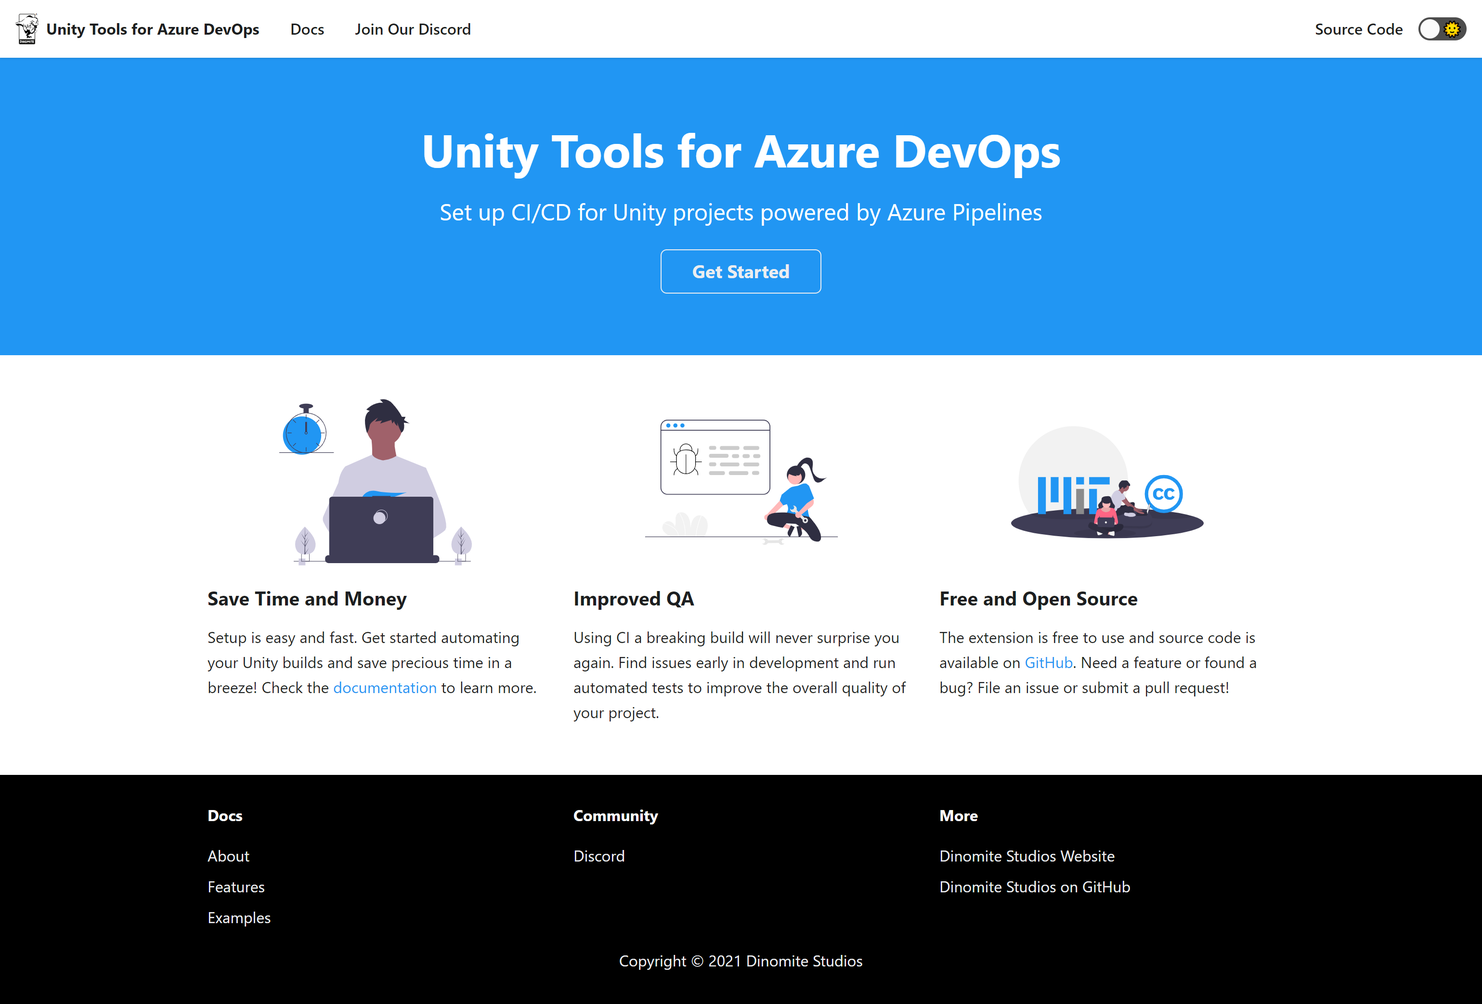
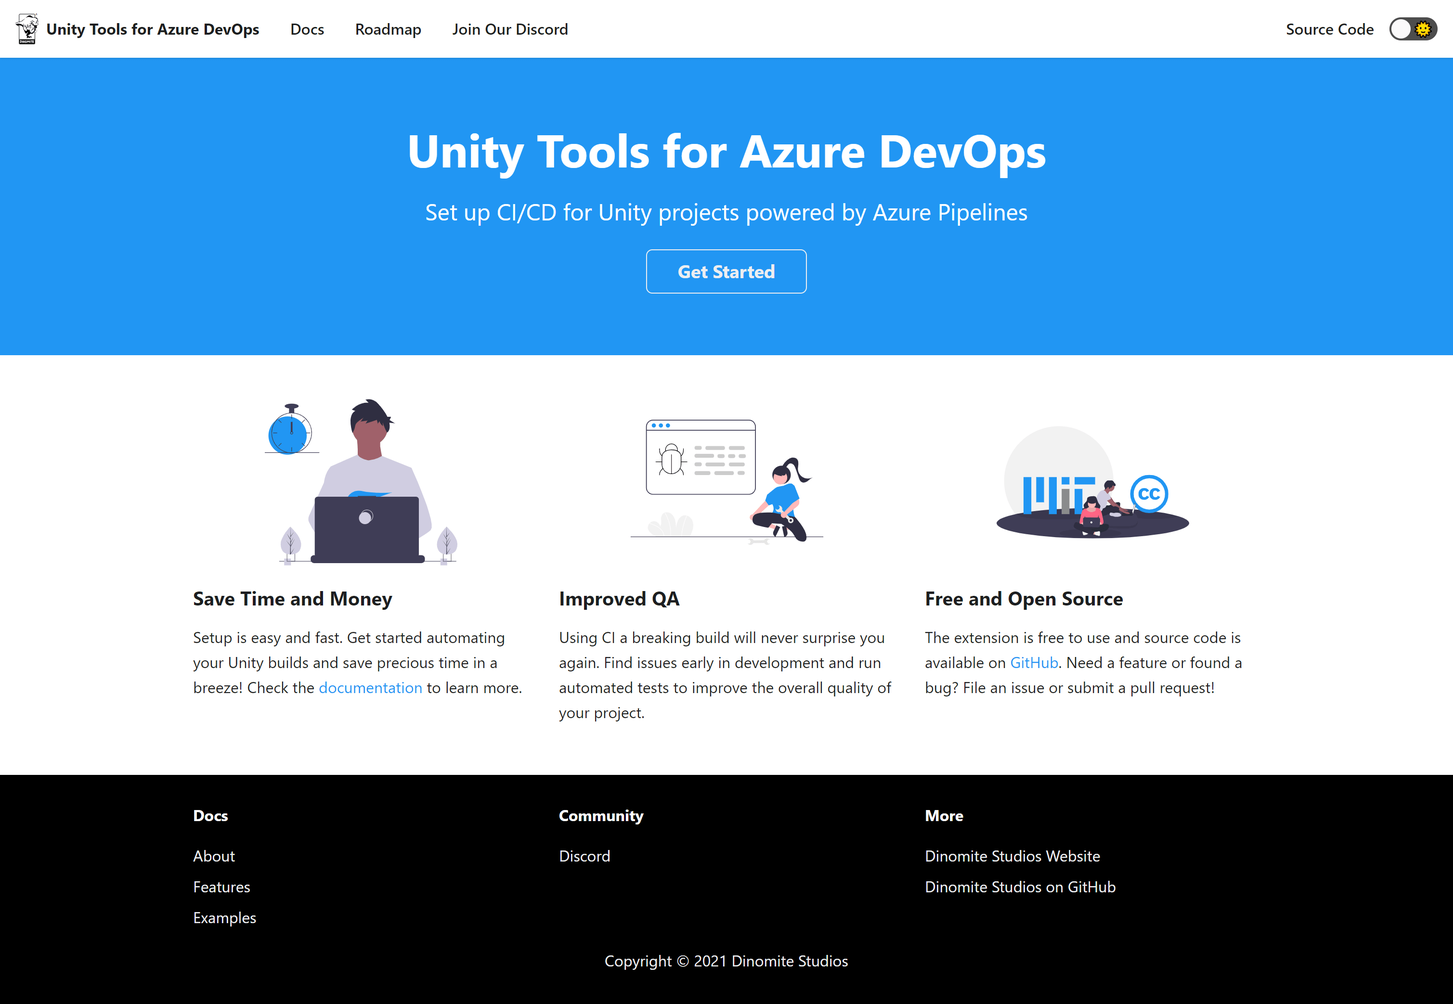
Release new examples (#8)
* Update azure-pipelines.yml for Azure Pipelines (#3)

* Create Standalone build example (#5)

* Update README

* Update azure-pipelines.yml for Azure Pipelines (#3) (#4)

* Update azure-pipelines.yml for Azure Pipelines

* Update azure-pipelines.yml for Azure Pipelines

* Update azure-pipelines.yml for Azure Pipelines

* Update azure-pipelines.yml for Azure Pipelines

* Update azure-pipelines.yml for Azure Pipelines

* Add htaccess file for https redirect

* Add GA

* Create first standalone example

* Update examples (#7)

* Update README

* Update azure-pipelines.yml for Azure Pipelines (#3) (#4)

* Update azure-pipelines.yml for Azure Pipelines

* Update azure-pipelines.yml for Azure Pipelines

* Update azure-pipelines.yml for Azure Pipelines

* Update azure-pipelines.yml for Azure Pipelines

* Update azure-pipelines.yml for Azure Pipelines

* Add htaccess file for https redirect

* Add GA

* Create first standalone example

* Add roadmap page and reduze image file sizes

* Update build task docs to use yaml code instead of image

* Update exampel yaml

* Remove tabs from remaining docs

* Fix typo

diff --git a/docusaurus.config.js b/docusaurus.config.js
@@ -28,6 +28,12 @@ module.exports = {
           position: 'left',
         },
         {
+          to: 'roadmap/',
+          activeBasePath: 'roadmap',
+          label: 'Roadmap',
+          position: 'left',
+        },
+        {
           href: 'https://discord.gg/RpHSpxkEP6',
           label: 'Join Our Discord',
           position: 'left'

diff --git a/docs/unity-activate-license-task.md b/docs/unity-activate-license-task.md
@@ -101,32 +101,37 @@ Path to the Unity editor log files generated while executing the task. Use this 
 
 Here's a simple example of how to use and define the task in your pipeline. For more examples, check the [Examples Collection](./examples.md).
 
-import Tabs from '@theme/Tabs';
-import TabItem from '@theme/TabItem';
+### YAML
 
-<Tabs
-  lazy
-  groupId="pipeline-editing-tool"
-  defaultValue="yaml"
-  values={[
-    {label: 'YAML', value: 'yaml'},
-    {label: 'Classic Editor', value: 'classic'}
-  ]}>
-  <TabItem value="yaml">
-  <p>
-  In the simple YAML example below we are definiing the task a step in the pipeilne using <code>- task: UnityActivateLicenseTask@1</code>. We are also
-  giving the task a reference name using <code>name: unityactivation</code>, so we can use it to refernce the output variables of the task in other tasks of the pipeline. E.g. we can output the value of the <code>logsOutputPath</code> output variable to the console using <code>echo $(unityactivation.logsOutputPath)</code>. For <code>username</code>, <code>password</code> and <code>serial</code> we use shared pipeline variables created previously that contain the user credentials for activating Unity.
-  </p>
-  <img src="../static/img/unity-activate-license-task/unity-activate-license-yaml.png" alt="Classic Pipeline YAML Task Configuration"/>
-  </TabItem>
-  <TabItem value="classic">
-  <p>
-  The classic (visual) editor for Azure Pipelines provides input fields for configuring the task. In the simple example below, we set variables, which we previously defined, for the <code>username</code>, <code>password</code> and <code>serial</code> inputs. For <code>Unity editors location</code> we tell the task to use the default Unity Hub installation path to lookup installed Unity editor versions on the agent running our pipeline. We are also leaving the <code>Unity project path</code> field empty, since we know our Unity project is in the repository root. We are also assigning a <code>Reference name</code> to the task, so we can use it to refernce the output variables in the variables list in other tasks of the pipeline. E.g. to get the value of the <code>logsOutputPath</code> output variable and insert it into any other input field of a task we can then use <code>$(unityactivation.logsOutputPath)</code>.
-  </p>
+In the simple YAML example below we are definiing the task a step in the pipeilne using `- task: UnityActivateLicenseTask@1`. We are also giving the task a reference name using `name: unityactivation`, so we can use it to refernce the output variables of the task in other tasks of the pipeline. E.g. we can output the value of the `logsOutputPath` output variable to the console using `echo $(unityactivation.logsOutputPath)`. For `username`, `password` and `serial` we use shared pipeline variables created previously that contain the user credentials for activating Unity.
 
-  <img src="../static/img/unity-activate-license-task/unity-activate-license-classic.png" alt="Classic Pipeline Designer Task Configuration"/>
-  </TabItem>
-</Tabs>
+```yaml
+trigger:
+- main
+
+pool:
+  name: Unity Windows
+
+variables:
+  - group: unity-activation-variables
+
+steps:
+- task: UnityActivateLicenseTask@1
+  name: unityactivation
+  inputs:
+    username: $(unity.username)
+    password: $(unity.password)
+    serial: $(unity.serial)
+
+- script: |
+    echo $(unityactivation.logsOutputPath)
+```
+
+### Classic Pipeline Editor
+
+The classic (visual) editor for Azure Pipelines provides input fields for configuring the task. In the simple example below, we set variables, which we previously defined, for the `username`, `password` and `serial` inputs. For `Unity editors location` we tell the task to use the default Unity Hub installation path to lookup installed Unity editor versions on the agent running our pipeline. We are also leaving the `Unity project path` field empty, since we know our Unity project is in the repository root. We are also assigning a `Reference name` to the task, so we can use it to refernce the output variables in the variables list in other tasks of the pipeline. E.g. to get the value of the `logsOutputPath` output variable and insert it into any other input field of a task we can then use `$(unityactivation.logsOutputPath)`.
+
+![Classic Pipeline Designer Task Configuration](../static/img/unity-activate-license-task/unity-activate-license-classic.png)
 
 ---
 

diff --git a/docs/unity-cmd-task.md b/docs/unity-cmd-task.md
@@ -81,32 +81,33 @@ Path to the Unity editor log files generated while executing the task. Use this 
 
 Here's a simple example of how to use and define the task in your pipeline. For more examples, check the [Examples Collection](./examples.md).
 
-import Tabs from '@theme/Tabs';
-import TabItem from '@theme/TabItem';
+### YAML
 
-<Tabs
-  lazy
-  groupId="pipeline-editing-tool"
-  defaultValue="yaml"
-  values={[
-    {label: 'YAML', value: 'yaml'},
-    {label: 'Classic Editor', value: 'classic'}
-  ]}>
-  <TabItem value="yaml">
-  <p>
-  In the simple YAML example below we are definiing the task a step in the pipeilne using <code>- task: UnityCMDTask@1</code>. We are also
-  giving the task a reference name using <code>name: unitycmd</code>, so we can use it to refernce the output variables of the task in other tasks of the pipeline. E.g. we can output the value of the <code>logsOutputPath</code> output variable to the console using <code>echo $(unitycmd.logsOutputPath)</code>. For <code>cmdArgs</code> we specify that Unity should target the <code>standalone</code> platform and execute our custom build script <code>MyBuildTools.BuildProject</code> to perform the build.
-  </p>
-  <img src="../static/img/unity-cmd-task/unity-cmd-yaml.png" alt="Classic Pipeline YAML Task Configuration"/>
-  </TabItem>
-  <TabItem value="classic">
-  <p>
-  The classic (visual) editor for Azure Pipelines provides input fields for configuring the task. In the simple example below, we set <code>Unity editors location</code> to use the default Unity Hub installation path to lookup installed Unity editor versions on the agent running our pipeline. We are also leaving the <code>Unity project path</code> field empty, since we know our Unity project is in the repository root. For <code>Command line arguments</code> we specify that Unity should target the <code>standalone</code> platform and execute our custom build script <code>MyBuildTools.BuildProject</code> to perform the build. We are also assigning a <code>Reference name</code> to the task, so we can use it to refernce the output variables in the variables list in other tasks of the pipeline. E.g. to get the value of the <code>logsOutputPath</code> output variable and insert it into any other input field of a task we can then use <code>$(unitycmd.logsOutputPath)</code>.
-  </p>
+In the simple YAML example below we are definiing the task a step in the pipeilne using `- task: UnityCMDTask@1`. We are also giving the task a reference name using `name: unitycmd`, so we can use it to refernce the output variables of the task in other tasks of the pipeline. E.g. we can output the value of the `logsOutputPath` output variable to the console using `echo $(unitycmd.logsOutputPath)`. For `cmdArgs` we specify that Unity should target the `standalone` platform and execute our custom build script `MyBuildTools.BuildProject` to perform the build.
 
-  <img src="../static/img/unity-cmd-task/unity-cmd-classic.png" alt="Classic Pipeline Designer Task Configuration"/>
-  </TabItem>
-</Tabs>
+```yaml
+trigger:
+- main
+
+pool:
+  name: Unity Windows
+
+steps:
+- task: UnityCMDTask@1
+  name: unitycmd
+  inputs:
+    unityEditorsPathMode: unityHub
+    cmdArgs: -buildTarget standalone -executeMethod MyBuildTools.BuildProject
+
+- script: |
+    echo $(unitycmd.logsOutputPath)
+```
+
+### Classic Pipeline Editor
+
+The classic (visual) editor for Azure Pipelines provides input fields for configuring the task. In the simple example below, we set `Unity editors location` to use the default Unity Hub installation path to lookup installed Unity editor versions on the agent running our pipeline. We are also leaving the `Unity project path` field empty, since we know our Unity project is in the repository root. For `Command line arguments` we specify that Unity should target the `standalone` platform and execute our custom build script `MyBuildTools.BuildProject` to perform the build. We are also assigning a `Reference name` to the task, so we can use it to refernce the output variables in the variables list in other tasks of the pipeline. E.g. to get the value of the `logsOutputPath` output variable and insert it into any other input field of a task we can then use `$(unitycmd.logsOutputPath)`.
+
+![Classic Pipeline Designer Task Configuration](../static/img/unity-cmd-task/unity-cmd-classic.png)
 
 ---
 

diff --git a/docs/unity-test-task.md b/docs/unity-test-task.md
@@ -149,32 +149,32 @@ Path to the Unity editor log files generated while executing the task. Use this 
 
 Here's a simple example of how to use and define the task in your pipeline. For more examples, check the [Examples Collection](./examples.md).
 
-import Tabs from '@theme/Tabs';
-import TabItem from '@theme/TabItem';
+### YAML
 
-<Tabs
-  lazy
-  groupId="pipeline-editing-tool"
-  defaultValue="yaml"
-  values={[
-    {label: 'YAML', value: 'yaml'},
-    {label: 'Classic Editor', value: 'classic'}
-  ]}>
-  <TabItem value="yaml">
-  <p>
-  In the simple YAML example below we are definiing the task a step in the pipeilne using <code>- task: UnityTestTask@1</code>. We are also
-  giving the task a reference name using <code>name: unitytest</code>, so we can use it to refernce the output variables of the task in other tasks of the pipeline. E.g. we can output the value of the <code>testResultsOutputPathAndFileName</code> output variable to the console using <code>echo $(unitytest.testResultsOutputPathAndFileName)</code>. For <code>testMode</code> we specify that we want to run in <code>editMode</code>. Everything else we are leaving at the defaults.
-  </p>
-  <img src="../static/img/unity-test-task/unity-test-yaml.png" alt="Classic Pipeline YAML Task Configuration"/>
-  </TabItem>
-  <TabItem value="classic">
-  <p>
-  The classic (visual) editor for Azure Pipelines provides input fields for configuring the task. In the simple example below, we set <code>Test mode</code> to <code>Edit Mode</code>, that means we are running tests that will also include the Unity Editor assembly and APIs. This is e.g. useful when testing editor extensions. We are also assigning a <code>Reference name</code> to the task, so we can use it to refernce the output variables in the variables list in other tasks of the pipeline. E.g. to get the value of the <code>testResultsOutputPathAndFileName</code> output variable and insert it into any other input field of a task we can then use <code>$(unitytest.testResultsOutputPathAndFileName)</code>. Everything else we are leaving at the defaults.
-  </p>
+In the simple YAML example below we are definiing the task a step in the pipeilne using `- task: UnityTestTask@1`. We are also giving the task a reference name using `name: unitytest`, so we can use it to refernce the output variables of the task in other tasks of the pipeline. E.g. we can output the value of the `testResultsOutputPathAndFileName` output variable to the console using `echo $(unitytest.testResultsOutputPathAndFileName)`. For `testMode` we specify that we want to run in `editMode`. Everything else we are leaving at the defaults.
 
-  <img src="../static/img/unity-test-task/unity-test-classic.png" alt="Classic Pipeline Designer Task Configuration"/>
-  </TabItem>
-</Tabs>
+```yaml
+trigger:
+- main
+
+pool:
+  name: Unity Windows
+
+steps:
+- task: UnityTestTask@1
+  name: unitytest
+  inputs:
+    testMode: editMode
+
+- script: |
+    echo $(unitytest.testResultsOutputPathAndFileName)
+```
+
+### Classic Pipeline Editor
+
+The classic (visual) editor for Azure Pipelines provides input fields for configuring the task. In the simple example below, we set `Test mode` to `Edit Mode`, that means we are running tests that will also include the Unity Editor assembly and APIs. This is e.g. useful when testing editor extensions. We are also assigning a `Reference name` to the task, so we can use it to refernce the output variables in the variables list in other tasks of the pipeline. E.g. to get the value of the `testResultsOutputPathAndFileName` output variable and insert it into any other input field of a task we can then use `$(unitytest.testResultsOutputPathAndFileName)`. Everything else we are leaving at the defaults.
+
+![Classic Pipeline Designer Task Configuration](../static/img/unity-test-task/unity-test-classic.png)
 
 ---
 

diff --git a/docs/unity-build-task.md b/docs/unity-build-task.md
@@ -169,32 +169,34 @@ Path to the Unity editor log files generated while executing the task. Use this 
 
 Here's a simple example of how to use and define the task in your pipeline. For more examples, check the [Examples Collection](./examples.md).
 
-import Tabs from '@theme/Tabs';
-import TabItem from '@theme/TabItem';
+### YAML
 
-<Tabs
-  lazy
-  groupId="pipeline-editing-tool"
-  defaultValue="yaml"
-  values={[
-    {label: 'YAML', value: 'yaml'},
-    {label: 'Classic Editor', value: 'classic'}
-  ]}>
-  <TabItem value="yaml">
-  <p>
-  In the simple YAML example below we are definiing the task a step in the pipeilne using <code>- task: UnityBuildTask@3</code>. We are also
-  giving the task a reference name using <code>name: unitybuild</code>, so we can use it to refernce the output variables of the task in other tasks of the pipeline. E.g. we can output the value of the <code>logsOutputPath</code> output variable to the console using <code>echo $(unitybuild.logsOutputPath)</code>. For <code>buildTarget</code> we specify that Unity should target the <code>standalone</code> platform. Our output file will be named <code>drop.exe</code> in this example.
-  </p>
-  <img src="../static/img/unity-build-task/unity-build-yaml.png" alt="Classic Pipeline YAML Task Configuration"/>
-  </TabItem>
-  <TabItem value="classic">
-  <p>
-  The classic (visual) editor for Azure Pipelines provides input fields for configuring the task. In the simple example below, we set <code>Build target</code> to <code>Standalone (agent-based)</code>, that means if our pipeline runs on a Windows agent we get a Windows built and if on a mac we'll get a macOS build. We are also assigning a <code>Reference name</code> to the task, so we can use it to refernce the output variables in the variables list in other tasks of the pipeline. E.g. to get the value of the <code>logsOutputPath</code> output variable and insert it into any other input field of a task we can then use <code>$(unitybuild.logsOutputPath)</code>. Everything else we are leaving at the defaults.
-  </p>
+In the simple YAML example below we are definiing the task a step in the pipeilne using `- task: UnityBuildTask@3`. We are also giving the task a reference name using `name: unitybuild`, so we can use it to refernce the output variables of the task in other tasks of the pipeline. E.g. we can output the value of the `logsOutputPath` output variable to the console using `echo $(unitybuild.logsOutputPath)`. For `buildTarget` we specify that Unity should target the `standalone` platform. Our output file will be named `drop.exe` in this example.
 
-  <img src="../static/img/unity-build-task/unity-build-classic.png" alt="Classic Pipeline Designer Task Configuration"/>
-  </TabItem>
-</Tabs>
+```yaml
+trigger:
+- main
+
+pool:
+  name: Unity Windows
+
+steps:
+- task: UnityBuildTask@3
+  name: unitybuild
+  inputs:
+    buildTarget: standalone
+    outputPath: $(Build.BinariesDirectory)
+    outputFileName: drop
+
+- script: |
+    echo $(unitybuild.logsOutputPath)
+```
+
+### Classic Pipeline Editor
+
+The classic (visual) editor for Azure Pipelines provides input fields for configuring the task. In the simple example below, we set `Build target` to `Standalone (agent-based)`, that means if our pipeline runs on a Windows agent we get a Windows built and if on a mac we'll get a macOS build. We are also assigning a `Reference name` to the task, so we can use it to refernce the output variables in the variables list in other tasks of the pipeline. E.g. to get the value of the `logsOutputPath` output variable and insert it into any other input field of a task we can then use `$(unitybuild.logsOutputPath)`. Everything else we are leaving at the defaults.
+
+![Classic Pipeline Designer Task Configuration](../static/img/unity-build-task/unity-build-classic.png)
 
 ---
 

diff --git a/docs/unity-get-project-version-task.md b/docs/unity-get-project-version-task.md
@@ -43,32 +43,33 @@ The Unity editor version revision found by the task for the specified Unity proj
 
 Here's a simple example of how to use and define the task in your pipeline. For more examples, check the [Examples Collection](./examples.md).
 
+### YAML
+
+In the simple YAML example below we are definiing the task a step in the pipeilne using `- task: UnityGetProjectVersionTask@1`. We are also giving the task a reference name using `name: unitygetprojectversion`, so we can use it to refernce the output variables of the task in other tasks of the pipeline. E.g. we can output the value of the `projectVersion` output variable to the console using `echo $(unitygetprojectversion.projectVersion)`.
+
+```yaml
+trigger:
+- main
+
+pool:
+  name: Unity Windows
+
+steps:
+- task: UnityGetProjectVersionTask@1
+  name: unitygetprojectversion
+
+- script: |
+    echo $(unitygetprojectversion.projectVersion)
+```
+
+### Classic Pipeline Editor
+
+The classic (visual) editor for Azure Pipelines provides input fields for configuring the task. In the simple example below, we are leaving the `Unity project path` field empty, since we know our Unity project is in the repository root. We are also assigning a `Reference name` to the task, so we can use it to refernce the output variables in the variables list in other tasks of the pipeline. E.g. to get the value of the `projectVersion` output variable and insert it into any other input field of a task we can then use `$(unitygetprojectversion.projectVersion)`.
+
+![Classic Pipeline Designer Task Configuration](../static/img/unity-get-project-version-task/get-project-version-classic.png)
+
 import Tabs from '@theme/Tabs';
 import TabItem from '@theme/TabItem';
-
-<Tabs
-  lazy
-  groupId="pipeline-editing-tool"
-  defaultValue="yaml"
-  values={[
-    {label: 'YAML', value: 'yaml'},
-    {label: 'Classic Editor', value: 'classic'}
-  ]}>
-  <TabItem value="yaml">
-  <p>
-  In the simple YAML example below we are definiing the task a step in the pipeilne using <code>- task: UnityGetProjectVersionTask@1</code>. We are also
-  giving the task a reference name using <code>name: unitygetprojectversion</code>, so we can use it to refernce the output variables of the task in other tasks of the pipeline. E.g. we can output the value of the <code>projectVersion</code> output variable to the console using <code>echo $(unitygetprojectversion.projectVersion)</code>.
-  </p>
-  <img src="../static/img/unity-get-project-version-task/get-project-version-yaml.png" alt="Classic Pipeline YAML Task Configuration"/>
-  </TabItem>
-  <TabItem value="classic">
-  <p>
-  The classic (visual) editor for Azure Pipelines provides input fields for configuring the task. In the simple example below, we are leaving the <code>Unity project path</code> field empty, since we know our Unity project is in the repository root. We are also assigning a <code>Reference name</code> to the task, so we can use it to refernce the output variables in the variables list in other tasks of the pipeline. E.g. to get the value of the <code>projectVersion</code> output variable and insert it into any other input field of a task we can then use <code>$(unitygetprojectversion.projectVersion)</code>.
-  </p>
-
-  <img src="../static/img/unity-get-project-version-task/get-project-version-classic.png" alt="Classic Pipeline Designer Task Configuration"/>
-  </TabItem>
-</Tabs>
 
 ---
 

diff --git a/docs/example-standalone-0.md b/docs/example-standalone-0.md
@@ -31,37 +31,37 @@ trigger:
 # that have the required Unity versions installed and any required SDKs for target platforms
 # configured.
 pool:
-  name: 'Unity Windows'
+  name: Unity Windows
 
-# Adds a pipeline variables library to the pipeline that contains
+# Adds a shared pipeline variables library to the pipeline that contains
 # authentication variables for activating a Unity editor with a Unity Plus / Pro seat.
 variables:
-  - group: 'unity-activation-variables'
+  - group: unity-activation-variables
 
 steps:
 # Before we build we activate a Unity Plus/Pro seat on the agent, only for the duration
 # of the pipeline execution. That way we can e.g. get rid of the Unity splash screen in our build.
 - task: UnityActivateLicenseTask@1
-  name: 'unityactivation'
+  name: unityactivation
   inputs:
-    username: '$(unity.username)'
-    password: '$(unity.password)'
-    serial: '$(unity.serial)'
+    username: $(unity.username)
+    password: $(unity.password)
+    serial: $(unity.serial)
 
 # Build the Unity project to standalone. Since we are running on a Windows agent, this will produce
 # an .exe executable and any dependency files needed.
 - task: UnityBuildTask@3
   inputs:
-    buildTarget: 'standalone'
-    outputPath: '$(Build.BinariesDirectory)'
-    outputFileName: 'mygame'
+    buildTarget: standalone
+    outputPath: $(Build.BinariesDirectory)
+    outputFileName: mygame
 
 # Copy build output files to artifact staging directory.
 - task: CopyFiles@2
   inputs:
-    SourceFolder: '$(Build.BinariesDirectory)'
+    SourceFolder: $(Build.BinariesDirectory)
     Contents: '**'
-    TargetFolder: '$(Build.ArtifactStagingDirectory)'
+    TargetFolder: $(Build.ArtifactStagingDirectory)
     CleanTargetFolder: true
     OverWrite: true
 
@@ -69,7 +69,7 @@ steps:
 # artifact storage. They will be available for sharing and/or further processing there.
 - task: PublishBuildArtifacts@1
   inputs:
-    PathtoPublish: '$(Build.ArtifactStagingDirectory)'
-    ArtifactName: 'drop'
-    publishLocation: 'Container'
+    PathtoPublish: $(Build.ArtifactStagingDirectory)
+    ArtifactName: drop
+    publishLocation: Container
 ```

diff --git a/src/pages/roadmap.md b/src/pages/roadmap.md
@@ -1,0 +1,17 @@
+---
+title: Roadmap
+description: Things planned for Unity Tools for Azure DevOps
+hide_table_of_contents: true
+---
+
+# Roadmap
+
+Unity Tools for Azure DevOps is a a non-profit open source tool and as such the speed of progression varies with time available for development. That said, here's an overview of what is planned for the future ahead.
+
+## Unity Install Task
+
+The next important step for a complete Unity DevOps suite is to implement a setup task that will install any required Unity Editor and modules for a project to build. So far we've been relying on a third-party PowerShell script for installing Unity editors.
+
+### Status
+
+Planned

diff --git a/README.md b/README.md
@@ -13,7 +13,7 @@ This repository contains the documentation website for [Unity Tools for Azure De
 
 ## Contributions
 
-Found and fixed a bug or improvement on something? Contributions are welcome! Please target your pull request
+Found and fixed a bug or improved on something? Contributions are welcome! Please target your pull request
 against the `development` branch.
 
 ## Development Instructions
